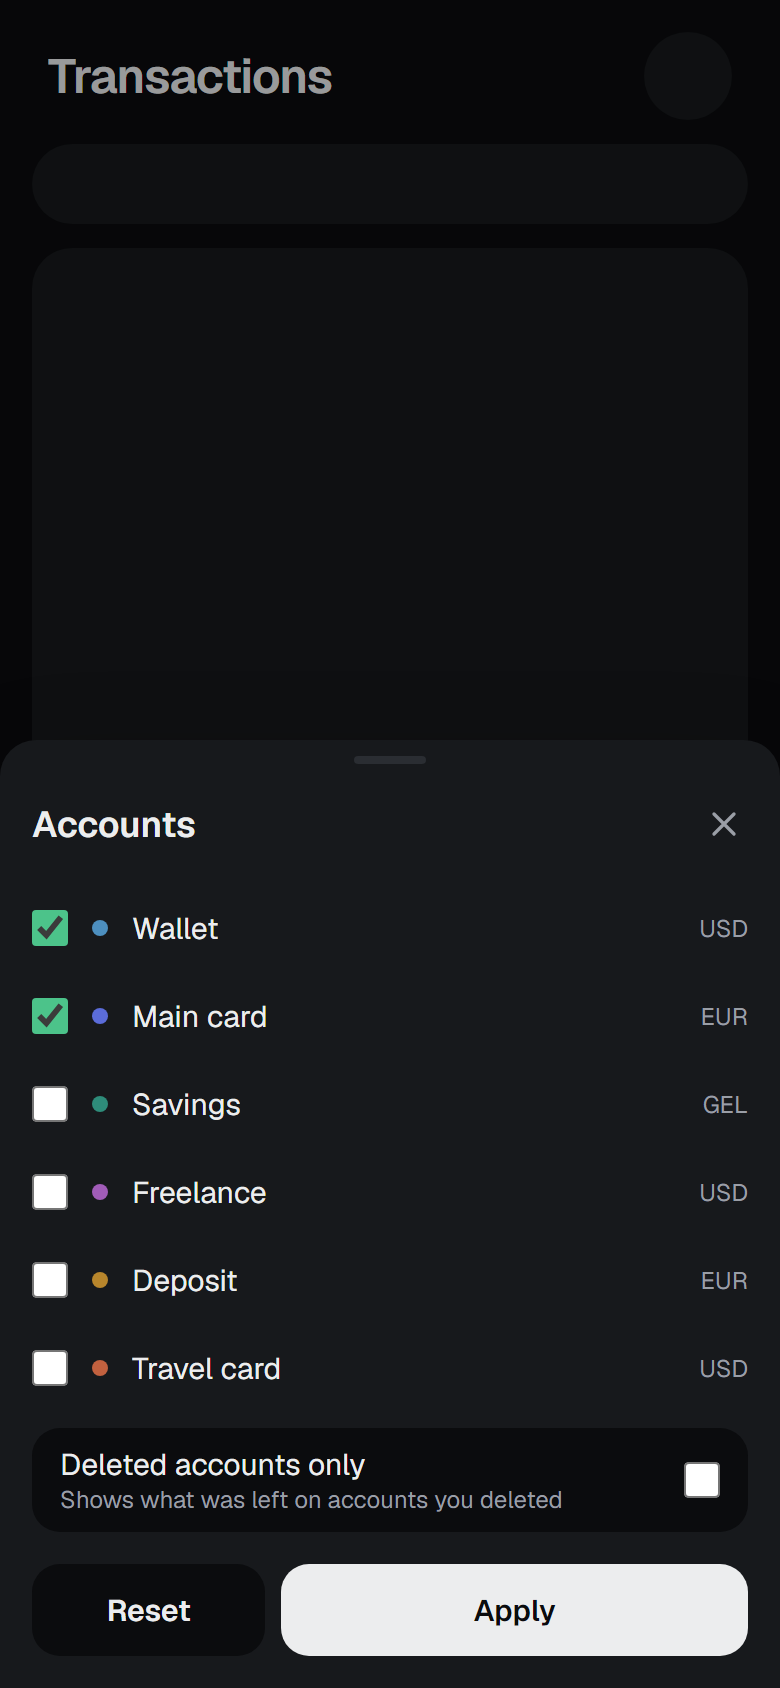
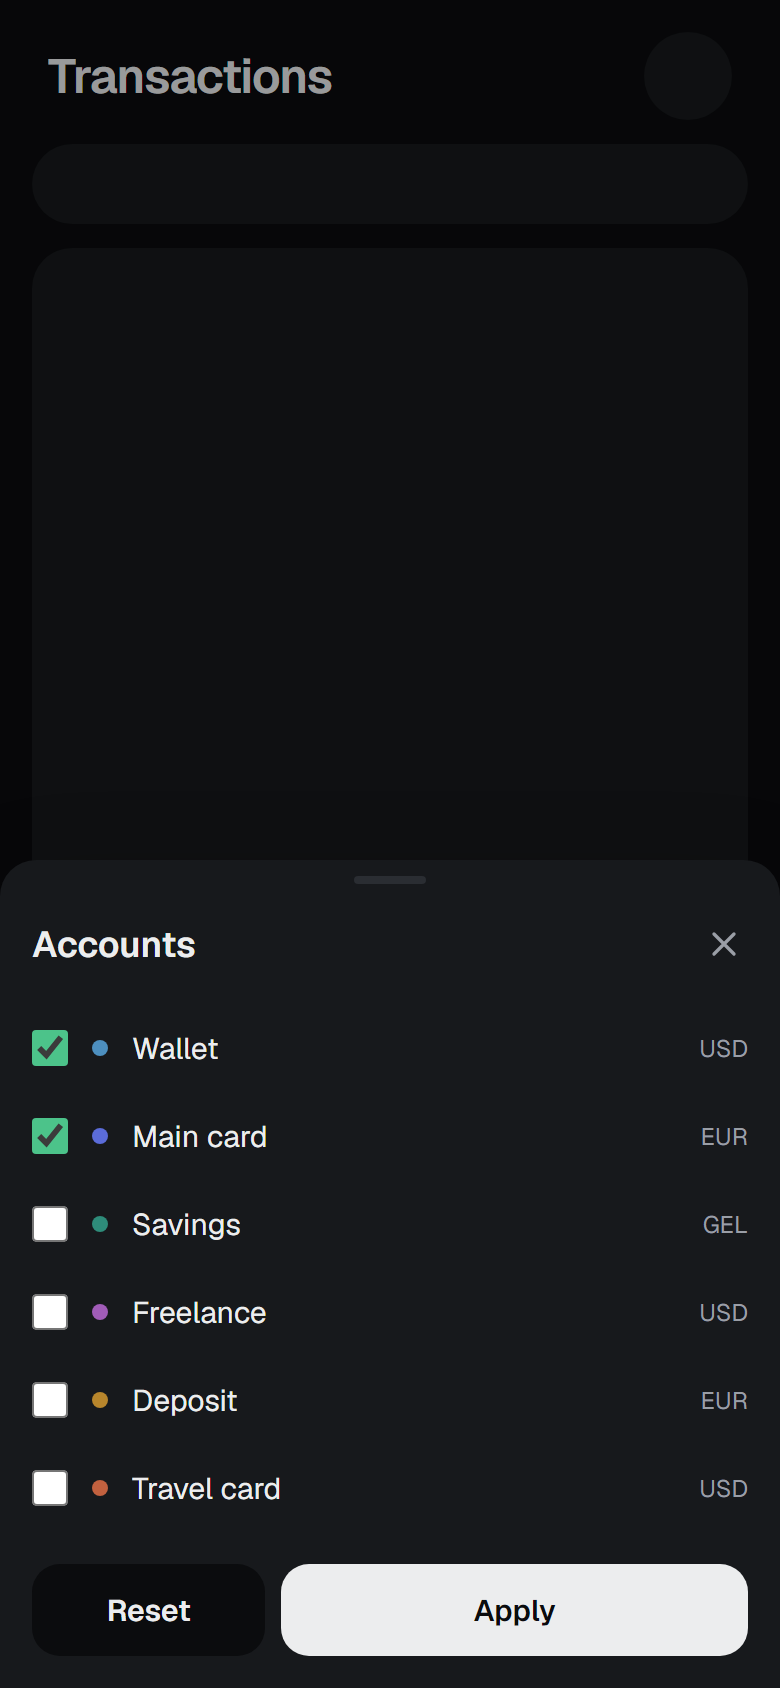
#257: Drop the deleted-accounts row, add the empty filter panel
Claude-Session: https://claude.ai/code/session_01JqeZG6VLtMZVXrGbvqxaAN

diff --git a/219/design/desktop-empty-filter.dc.html b/219/design/desktop-empty-filter.dc.html
@@ -1,0 +1,51 @@
+<!doctype html>
+<html lang="en">
+<head>
+<meta charset="utf-8">
+<title>Empty income sources filter popover, desktop</title>
+<script src="./support.js"></script>
+</head>
+<body>
+<x-dc>
+<helmet>
+<link rel="stylesheet" href="https://fonts.googleapis.com/css2?family=Geist:wght@400;500;600;700&amp;display=swap">
+<style>
+body{margin:0}
+a{color:inherit;text-decoration:none}a:hover{opacity:.8}
+button,input{font:inherit}
+button{cursor:pointer}
+</style>
+</helmet>
+<div style="width: 1280px; height: 900px; box-sizing: border-box; padding: 16px; overflow: hidden; display: flex; align-items: flex-start; gap: 16px; font-family: Geist, system-ui, sans-serif; font-variant-numeric: tabular-nums; background: {{t.bg}}; color: {{t.text}}">
+  <div aria-hidden="true" style="flex: 0 0 232px; height: 300px; border-radius: 22px; background: {{t.panel}}"></div>
+  <div style="flex: 1 1 auto; min-width: 0; height: 100%; display: flex; flex-direction: column; gap: 12px">
+    <div style="height: 76px; flex-shrink: 0; padding: 0 8px; display: flex; align-items: center"><span style="font-size: 24px; font-weight: 600; letter-spacing: -0.02em">Transactions</span></div>
+    <div style="position: relative; display: flex; align-items: center; gap: 8px">
+      <div role="toolbar" aria-label="Filters" style="display: flex; gap: 8px">
+        <sc-for list="{{chips}}" as="c" hint-placeholder-count="7">
+          <button type="button" aria-haspopup="dialog" aria-expanded="{{c.open}}" style="{{c.style}}">{{c.label}}<svg aria-hidden="true" width="14" height="14" viewBox="0 0 24 24" fill="none" stroke="currentColor" stroke-width="2" stroke-linecap="round" stroke-linejoin="round"><path d="m6 9 6 6 6-6"/></svg></button>
+        </sc-for>
+      </div>
+      <div role="dialog" aria-label="Income sources" style="{{popoverStyle}}">
+        <p style="margin: 0; padding: 8px 0; font-size: 14px; color: {{t.muted}}">No income sources yet.</p>
+      </div>
+    </div>
+    <div aria-hidden="true" style="flex: 1 1 auto; border-radius: 22px; background: {{t.panel}}"></div>
+  </div>
+</div>
+</x-dc>
+<script type="text/x-dc" data-dc-script data-props='{"dark":{"editor":"boolean","default":false},"$preview":{"width":1280,"height":900}}'>
+class Component extends DCLogic {
+renderVals() {
+const L = { bg: '#EEEEEB', panel: '#FFFFFF', text: '#17181A', muted: '#5A5D64', accent: '#1F7A55', line: '#E2E2DE' };
+const D = { bg: '#0B0C0E', panel: '#17191C', text: '#ECEDEE', muted: '#9A9EA6', accent: '#4CC38A', line: '#2A2D32' };
+const t = (this.props.dark ?? false) ? D : L;
+const chipBase = 'height: 40px; padding: 0 12px 0 14px; border-radius: 999px; display: flex; align-items: center; gap: 4px; font-size: 14px; font-weight: 500; white-space: nowrap; background: ' + t.panel + '; color: ' + t.text + '; ';
+const chips = ['Period', 'Type', 'Accounts', 'Categories', 'Income', 'Amount', 'Newest first'].map((label) => ({ label, open: label === 'Income' ? 'true' : 'false', style: chipBase + (label === 'Income' ? 'border: 2px solid ' + t.text : 'border: 0') }));
+const popoverStyle = 'position: absolute; left: 418px; top: 48px; z-index: 2; width: 260px; box-sizing: border-box; padding: 8px 16px; border-radius: 20px; display: flex; flex-direction: column; gap: 8px; background: ' + t.panel + '; border: 1px solid ' + t.line + '; box-shadow: 0 18px 50px rgba(0,0,0,.3)';
+return { t, chips, popoverStyle };
+}
+}
+</script>
+</body>
+</html>

diff --git a/219/design/a-empty-filter-phone.dc.html b/219/design/a-empty-filter-phone.dc.html
@@ -1,0 +1,48 @@
+<!doctype html>
+<html lang="en">
+<head>
+<meta charset="utf-8">
+<title>Empty income sources filter sheet, phone</title>
+<script src="./support.js"></script>
+</head>
+<body>
+<x-dc>
+<helmet>
+<link rel="stylesheet" href="https://fonts.googleapis.com/css2?family=Geist:wght@400;500;600;700&amp;display=swap">
+<style>
+body{margin:0}
+a{color:inherit;text-decoration:none}a:hover{opacity:.8}
+button,input{font:inherit}
+button{cursor:pointer}
+</style>
+</helmet>
+<div style="width: 390px; height: 844px; box-sizing: border-box; padding: 16px; position: relative; overflow: hidden; display: flex; flex-direction: column; gap: 12px; font-family: Geist, system-ui, sans-serif; font-variant-numeric: tabular-nums; background: {{t.bg}}; color: {{t.text}}">
+  <div style="padding: 0 8px; display: flex; align-items: center; justify-content: space-between">
+    <span style="font-size: 24px; font-weight: 600; letter-spacing: -0.02em">Transactions</span>
+    <span style="width: 44px; height: 44px; border-radius: 22px; background: {{t.panel}}"></span>
+  </div>
+  <div style="height: 40px; border-radius: 999px; background: {{t.panel}}"></div>
+  <div style="flex-grow: 1; border-radius: 20px; background: {{t.panel}}"></div>
+  <div aria-hidden="true" style="position: absolute; inset: 0; background: rgba(0,0,0,.35)"></div>
+  <div role="dialog" aria-modal="true" aria-labelledby="sheet-title" style="position: absolute; left: 0; right: 0; bottom: 0; box-sizing: border-box; padding: 8px 16px 24px; border-radius: 18px 18px 0 0; display: flex; flex-direction: column; gap: 8px; background: {{t.panel}}; box-shadow: 0 18px 50px rgba(0,0,0,.3)">
+    <span aria-hidden="true" style="align-self: center; width: 36px; height: 4px; border-radius: 2px; background: {{t.line}}"></span>
+    <div style="height: 44px; display: flex; align-items: center; justify-content: space-between">
+      <h2 id="sheet-title" style="margin: 0; font-size: 18px; font-weight: 600">Income sources</h2>
+      <a href="Main.dc.html" aria-label="Close" style="width: 44px; height: 44px; margin-right: -10px; display: flex; align-items: center; justify-content: center; color: {{t.muted}}"><svg aria-hidden="true" width="20" height="20" viewBox="0 0 24 24" fill="none" stroke="currentColor" stroke-width="2" stroke-linecap="round"><path d="M6 6l12 12M18 6 6 18"/></svg></a>
+    </div>
+    <p style="margin: 0; padding: 12px 0; font-size: 15px; color: {{t.muted}}">No income sources yet.</p>
+  </div>
+</div>
+</x-dc>
+<script type="text/x-dc" data-dc-script data-props='{"dark":{"editor":"boolean","default":true},"$preview":{"width":390,"height":844}}'>
+class Component extends DCLogic {
+renderVals() {
+const L = { bg: '#EEEEEB', panel: '#FFFFFF', text: '#17181A', muted: '#5A5D64', accent: '#1F7A55', line: '#E2E2DE' };
+const D = { bg: '#0B0C0E', panel: '#17191C', text: '#ECEDEE', muted: '#9A9EA6', accent: '#4CC38A', line: '#2A2D32' };
+const t = (this.props.dark ?? true) ? D : L;
+return { t };
+}
+}
+</script>
+</body>
+</html>

diff --git a/219/design/desktop-accounts.dc.html b/219/design/desktop-accounts.dc.html
@@ -42,10 +42,6 @@ button{cursor:pointer}
             </fieldset>
           </sc-for>
         </div>
-        <label style="min-height: 44px; padding: 0 12px; border-radius: 12px; display: flex; align-items: center; gap: 10px; font-size: 14px; background: {{t.bg}}; cursor: pointer">
-          <span style="flex-grow: 1">Deleted accounts only</span>
-          <input type="checkbox" role="switch" checked="{{deletedOnly}}" onChange="{{toggleDeleted}}" style="width: 16px; height: 16px; margin: 0; accent-color: {{t.accent}}">
-        </label>
         <div style="display: grid; grid-template-columns: 1fr 2fr; gap: 8px">
           <button type="button" onClick="{{reset}}" style="height: 40px; border: 0; border-radius: 12px; font-size: 14px; font-weight: 600; background: {{t.bg}}; color: {{t.text}}">Reset</button>
           <button type="button" style="height: 40px; border: 0; border-radius: 12px; font-size: 14px; font-weight: 600; background: {{t.text}}; color: {{t.bg}}">Apply</button>
@@ -60,7 +56,7 @@ button{cursor:pointer}
 class Component extends DCLogic {
 constructor(props) {
 super(props);
-this.state = { picked: { wallet: true, main: true }, deletedOnly: false };
+this.state = { picked: { wallet: true, main: true } };
 }
 renderVals() {
 const L = { bg: '#EEEEEB', panel: '#FFFFFF', text: '#17181A', muted: '#5A5D64', accent: '#1F7A55', line: '#E2E2DE' };
@@ -76,9 +72,7 @@ toggle: () => this.setState({ picked: { ...picked, [id]: !picked[id] } }) });
 const groups = [
 { label: 'Money accounts', items: [item('wallet', 'Wallet', 'USD', '#4D8FBF'), item('main', 'Main card', 'EUR', '#5B6CD9'), item('savings', 'Savings', 'GEL', '#2E8C7A'), item('freelance', 'Freelance', 'USD', '#A15CB8'), item('deposit', 'Deposit', 'EUR', '#B8862C'), item('travel', 'Travel card', 'USD', '#C2613F')] }
 ];
-return { t, chips, groups, deletedOnly: this.state.deletedOnly,
-toggleDeleted: () => this.setState({ deletedOnly: !this.state.deletedOnly }),
-reset: () => this.setState({ picked: {}, deletedOnly: false }) };
+return { t, chips, groups, reset: () => this.setState({ picked: {} }) };
 }
 }
 </script>

diff --git a/219/design/a-filter-phone.dc.html b/219/design/a-filter-phone.dc.html
@@ -44,10 +44,6 @@ button{cursor:pointer}
           </sc-for>
         </fieldset>
       </sc-for>
-      <label style="min-height: 52px; margin-top: 4px; padding: 0 14px; border-radius: 14px; display: flex; align-items: center; gap: 12px; background: {{t.bg}}; cursor: pointer">
-        <span style="flex-grow: 1; display: flex; flex-direction: column"><span style="font-size: 15px">Deleted accounts only</span><span style="font-size: 12px; color: {{t.muted}}">Shows what was left on accounts you deleted</span></span>
-        <input type="checkbox" role="switch" checked="{{deletedOnly}}" onChange="{{toggleDeleted}}" style="width: 18px; height: 18px; margin: 0; accent-color: {{t.accent}}">
-      </label>
     </div>
     <div style="padding-top: 8px; display: grid; grid-template-columns: 1fr 2fr; gap: 8px">
       <button type="button" onClick="{{reset}}" style="height: 46px; border: 0; border-radius: 14px; font-size: 15px; font-weight: 600; background: {{t.bg}}; color: {{t.text}}">Reset</button>
@@ -60,7 +56,7 @@ button{cursor:pointer}
 class Component extends DCLogic {
 constructor(props) {
 super(props);
-this.state = { picked: { wallet: true, main: true }, deletedOnly: false };
+this.state = { picked: { wallet: true, main: true } };
 }
 renderVals() {
 const L = { bg: '#EEEEEB', panel: '#FFFFFF', text: '#17181A', muted: '#5A5D64', accent: '#1F7A55', line: '#E2E2DE' };
@@ -73,9 +69,7 @@ toggle: () => this.setState({ picked: { ...picked, [id]: !picked[id] } }) });
 const groups = [
 { label: 'Money accounts', items: [item('wallet', 'Wallet', 'USD', '#4D8FBF'), item('main', 'Main card', 'EUR', '#5B6CD9'), item('savings', 'Savings', 'GEL', '#2E8C7A'), item('freelance', 'Freelance', 'USD', '#A15CB8'), item('deposit', 'Deposit', 'EUR', '#B8862C'), item('travel', 'Travel card', 'USD', '#C2613F')] }
 ];
-return { t, groups, deletedOnly: this.state.deletedOnly,
-toggleDeleted: () => this.setState({ deletedOnly: !this.state.deletedOnly }),
-reset: () => this.setState({ picked: {}, deletedOnly: false }) };
+return { t, groups, reset: () => this.setState({ picked: {} }) };
 }
 }
 </script>
